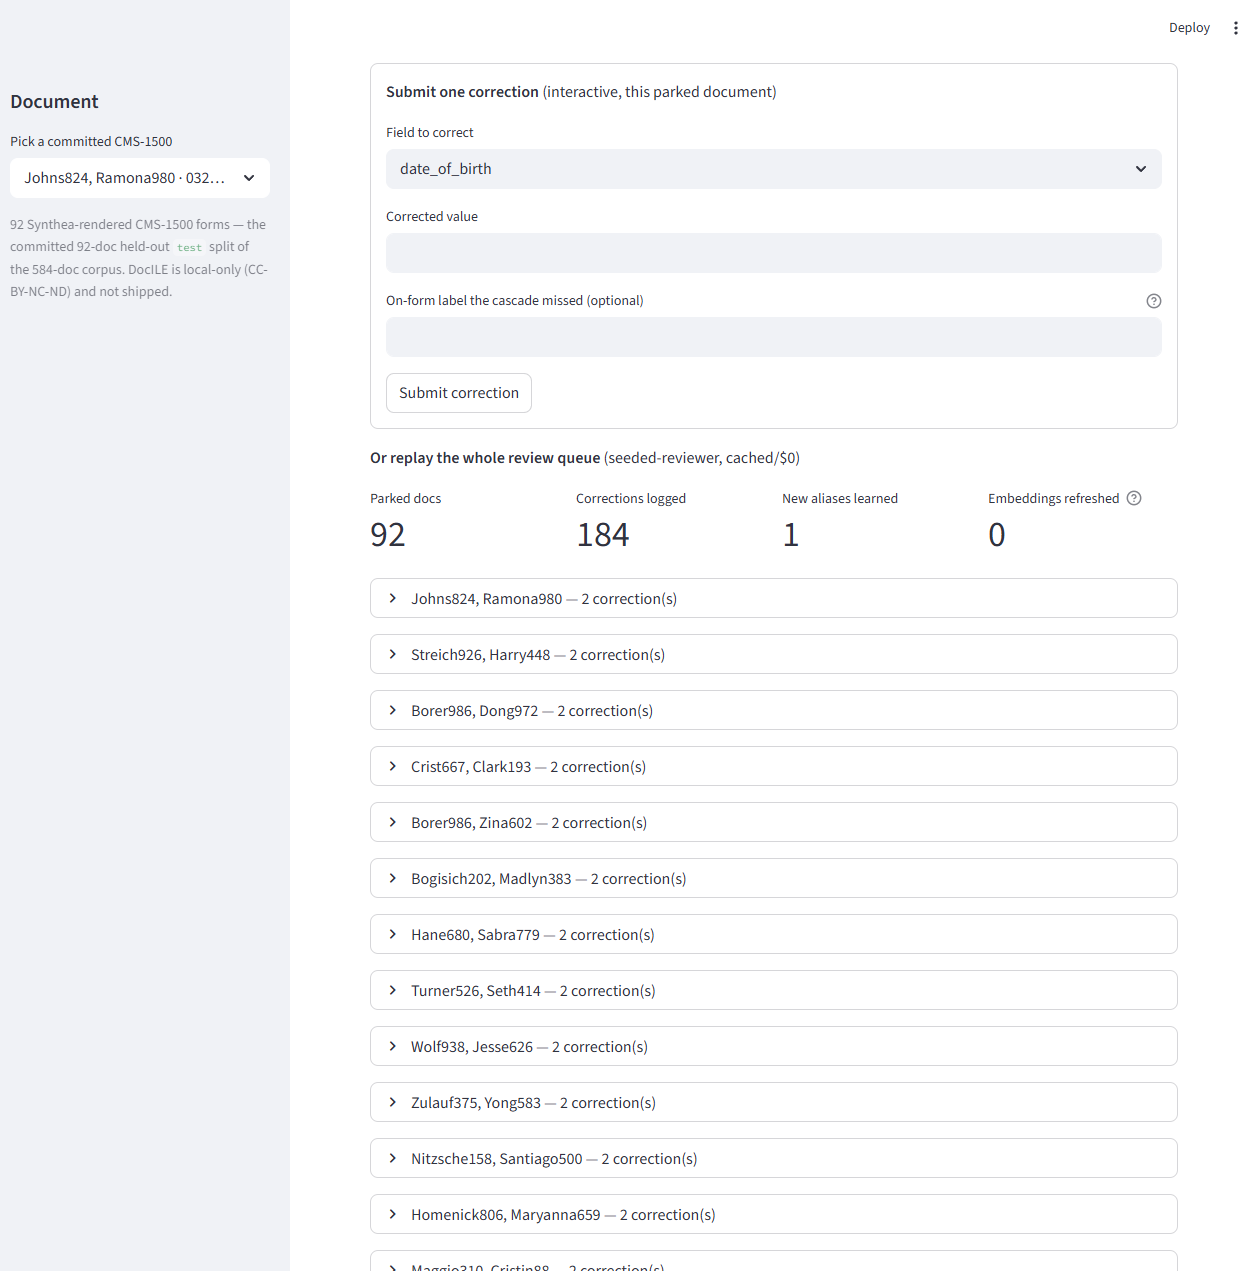
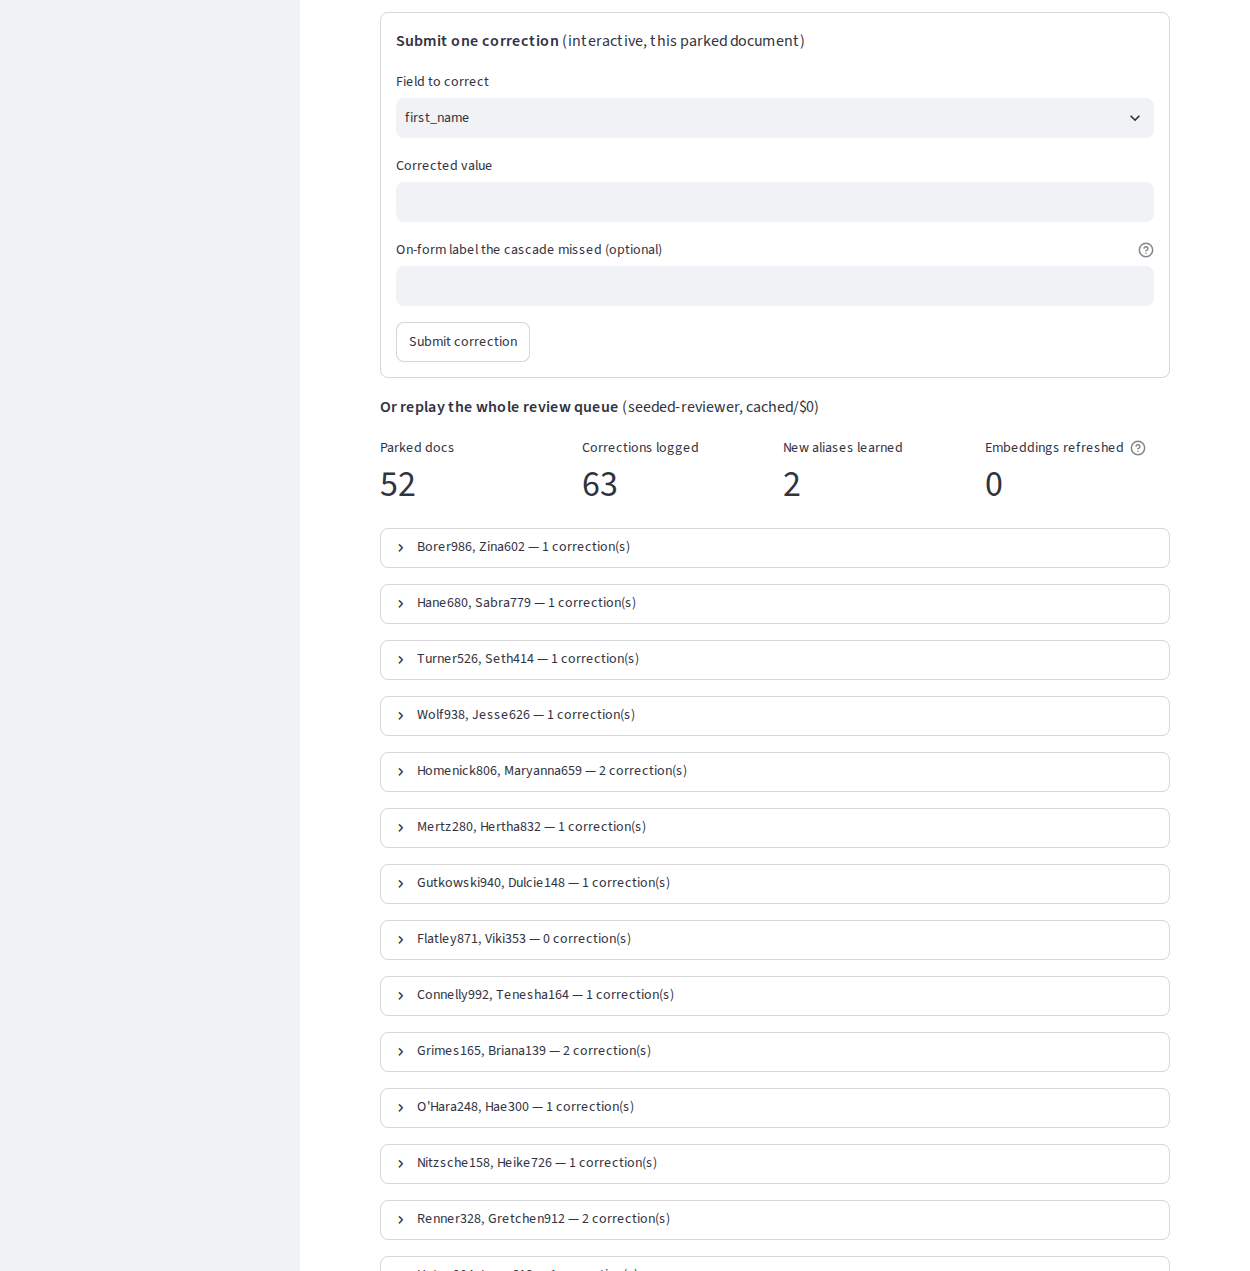
docs(demo): regenerate the three screenshots from the current replay
Re-captured headless from the cached-replay demo on localhost (Streamlit
1.66.1, Playwright Chromium), with a parked document selected
(Homenick806, Maryanna659) so the correction form renders:

- demo-screenshot.png: the by-stage headline 0.868 -> 0.806 -> 0.904,
  cells resolved 250 / 861 / 989 of 989 populated
- demo-human-in-the-loop.png and demo-self-improving-loop.png: the
  review-queue replay, 52 parked documents, 63 corrections, 2 new
  aliases, 0 embeddings refreshed

Drops the "This screenshot predates the 2026-10-16 numbers" notes in
README.md and docs/eval-methodology.md, and the self-improving-loop alt
text now says the replay covers the 52 parked documents.

Why: Mark picked cascade v2: route fields by uncertainty and test a Tier 3 that fits on the GPUs.

diff --git a/docs/eval-methodology.md b/docs/eval-methodology.md
@@ -74,9 +74,7 @@ The self-improvement story has two halves: a **live runtime loop** (the componen
 
 The live loop runs in the demo's *reviewer correction feedback* surface. When a reviewer corrects a parked field, three things happen: (1) the correction is logged to the `corrections` table; (2) the on-form label the cascade missed is appended to a **live alias overlay** (`src/data/corrections_aliases.json`) — the frozen v1.1.0 seed and the committed by-stage chart are never mutated, so the overlay is a pure runtime extension that the Tier 1 + router alias consumers union on top of the seed at load time, taking effect for the *next* extraction; (3) the document is re-embedded into the ColQwen retrieval corpus (demo-only: it feeds the nearest-neighbor panel, not extraction, and is a no-op on the cached path, since no `.npy` fixtures are committed). In the portfolio demo there are no live reviewers, so corrections are *seeded* from the schema-design alias work and replayed — the mechanism is identical, only the source of corrections differs (stated plainly, not dressed up as live reviewer data). Every demo action runs against a throwaway DB + overlay; persistent state is never mutated.
 
-![The self-improving loop in the V1 demo — submit-a-correction form plus the seeded-reviewer replay over the parked 92-doc corpus (corrections logged → live alias overlay), cached and $0](assets/demo-self-improving-loop.png)
-
-*This screenshot predates the 2026-10-16 numbers: it shows 184 corrections and 1 new alias; the current replay logs 63 and 2 (next paragraph).*
+![The self-improving loop in the V1 demo — submit-a-correction form plus the seeded-reviewer replay over the 52 parked documents of the 92-doc corpus (corrections logged → live alias overlay), cached and $0](assets/demo-self-improving-loop.png)
 
 The seeded replay over the 52 parked documents of the committed 92-doc corpus logs **63 corrections** and learns **2 new aliases** (71 and 4 over 53 documents before validator-failing Tier-1 readings stopped parking fields on 2026-10-25, 168 and 2 with the 2026-10-24 Tier 1 change alone, 200 and 4 before it — the Tier 1 change settles validated dates, ZIPs and states, and the Tier 3 routing settles agreed fields, before anything parks; 184 and 1 before the 2026-10-16 Tier 3 second read changed which fields park; most missed phrasings are already recognized at seed v1.1.0 — the loop never fabricates a phantom alias, so "new aliases learned" is honestly low). The crucial honest point, carried through from *Two-stage measurement*: this loop's measurable V1 payoff is the Tier-1 hit-rate climb, a modest fall in Tier-1→2 escalation (0.847 → 0.774 across the alias batches — see above), and since 2026-10-24 an end-to-end climb too (0.857 → 0.904), because Tier 1's readings decide which fields Tier 3 reads. The loop is real and the mechanism is production-shaped; what V1 honestly claims for it is exactly those measurements and no more.
 

diff --git a/README.md b/README.md
@@ -88,8 +88,6 @@ Corrections submitted from the queue flow back through `src/rag/aliases.py`: any
 
 ![Per-field correction input panel from the local demo](docs/assets/demo-human-in-the-loop.png)
 
-*This screenshot predates the 2026-10-16 numbers: its replay shows 184 corrections and 1 new alias; the current replay parks 52 documents and logs 63 corrections and 2 new aliases.*
-
 ## What's worth a closer look
 
 **The economics.** V1's cost is $0/1K — local inference on owned hardware, where latency is the meaningful metric, not dollars. The cost-routing argument is what the optional BAA-cloud enhancement would realize: BAA-cloud tiers in the middle and top would take the cascade to ~$9.50/1K, ~32× cheaper than putting every field through a single frontier model (~$300/1K at typical densities). V1 is not a prototype waiting on that number — it is complete, and it produces the measured escalation rates that make the projection credible rather than hypothetical.
@@ -116,8 +114,6 @@ just demo           # Streamlit on :8501 — real 3-tier cascade over the
 ```
 
 ![V1 local demo — by-stage ablation + escalation-funnel headline over the cached 92-doc cascade](docs/assets/demo-screenshot.png)
-
-*This screenshot predates the 2026-10-16 numbers: it shows the old cascade (Tier 3 re-reading 3 fields, type-based 1.000 confidences) and older figures. The numbers in the text are current.*
 
 The demo surfaces, per document: the rendered form, routed vertical and final tier, per-tier escalations, the per-field value/confidence/tier table, the populated review queue, and — as the headline analytics — the **by-stage ablation + escalation funnel** (F1 by cumulative tier, `0.868 → 0.806 → 0.904`, shown beside the *cells-resolved* coverage rising to 100%, both from the same cached run), with the supporting two-stage F1 numbers below it. For live on-GPU inference, `ollama pull qwen2.5vl:7b qwen2.5vl:32b`, install PaddleOCR-VL per `docs/local-development.md`, then `EVAL_LIVE=true just demo`. No cloud calls, no AWS credentials, either way. `just eval` / `by-stage` run the harness and regenerate the CI-drift-guarded SVG; full task list in the `justfile`.
 
